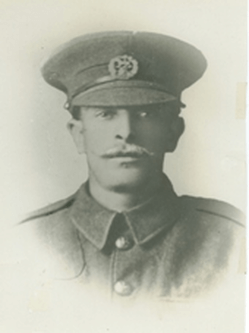
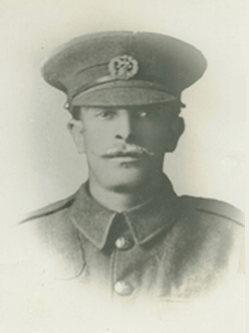
Styled for mobile, edited image to remove white line on right that was appearing.

Changed region(s): [[0.9839, 0.0, 1.0, 1.0]]

diff --git a/assets/styling/styling.scss b/assets/styling/styling.scss
@@ -3,22 +3,24 @@
     --border-radius-20: 20px;
 }
 
-
 .row {
     display: grid;
     grid-template-areas: "imageCol" "textCol";
-    grid-template-columns: 1fr;
+    grid-template-columns: 260px;
     grid-template-rows: auto auto;
     justify-content: center;
     margin-top: 20px;
 }
 
-
 .imageCol {
     grid-area: imageCol;
+    padding: 0;
     img {
         border-top-left-radius: var(--border-radius-20);
         border-top-right-radius: var(--border-radius-20);
+        width: 100%;
+        height: auto; 
+        display: block;
     }
 }
 
@@ -56,7 +58,6 @@
         font-weight: 700;
         margin-bottom: 10px;
     }
-
 }
 
 @media screen and (min-width: 576px) {

diff --git a/assets/styling/styling.css b/assets/styling/styling.css
@@ -6,7 +6,7 @@
 .row {
   display: grid;
   grid-template-areas: "imageCol" "textCol";
-  grid-template-columns: 1fr;
+  grid-template-columns: 260px;
   grid-template-rows: auto auto;
   justify-content: center;
   margin-top: 20px;
@@ -14,10 +14,14 @@
 
 .imageCol {
   grid-area: imageCol;
+  padding: 0;
 }
 .imageCol img {
   border-top-left-radius: var(--border-radius-20);
   border-top-right-radius: var(--border-radius-20);
+  width: 100%;
+  height: auto;
+  display: block;
 }
 
 .textCol {

diff --git a/index.html b/index.html
@@ -21,8 +21,8 @@
             <div class="col imageCol">
                 <img src="assets/images/private-frederick-spearink.png" alt="Priivate Frederick Spearink">
             </div>
+
             <div class="col textCol">
-                <div class="bgImage"></div>
                 <span class="service">Service Number:</span>
                 <span class="serviceNumber">11945</span>
 
